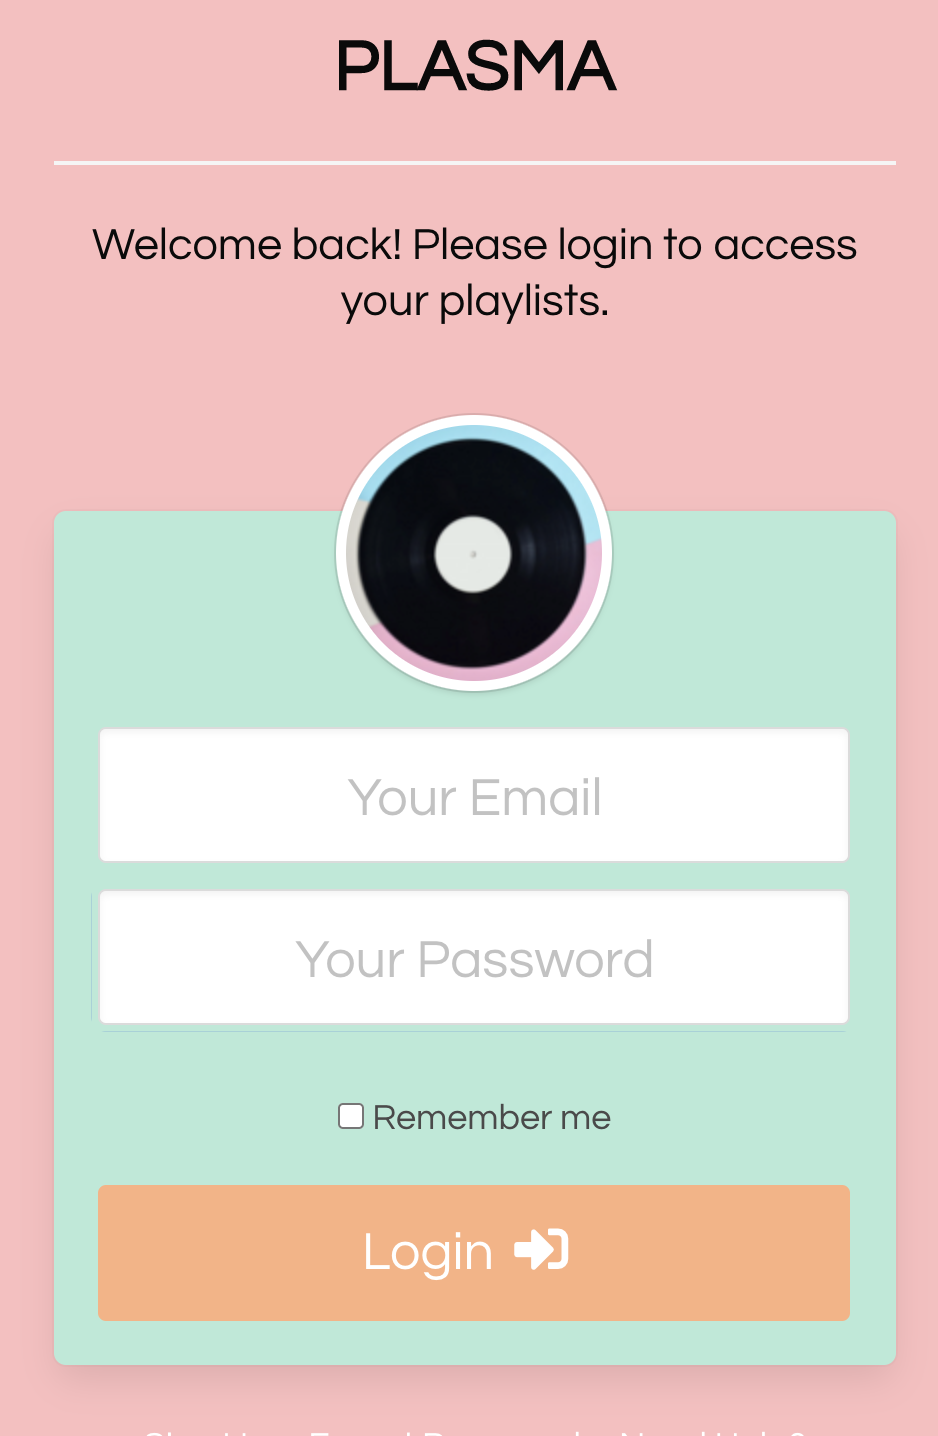
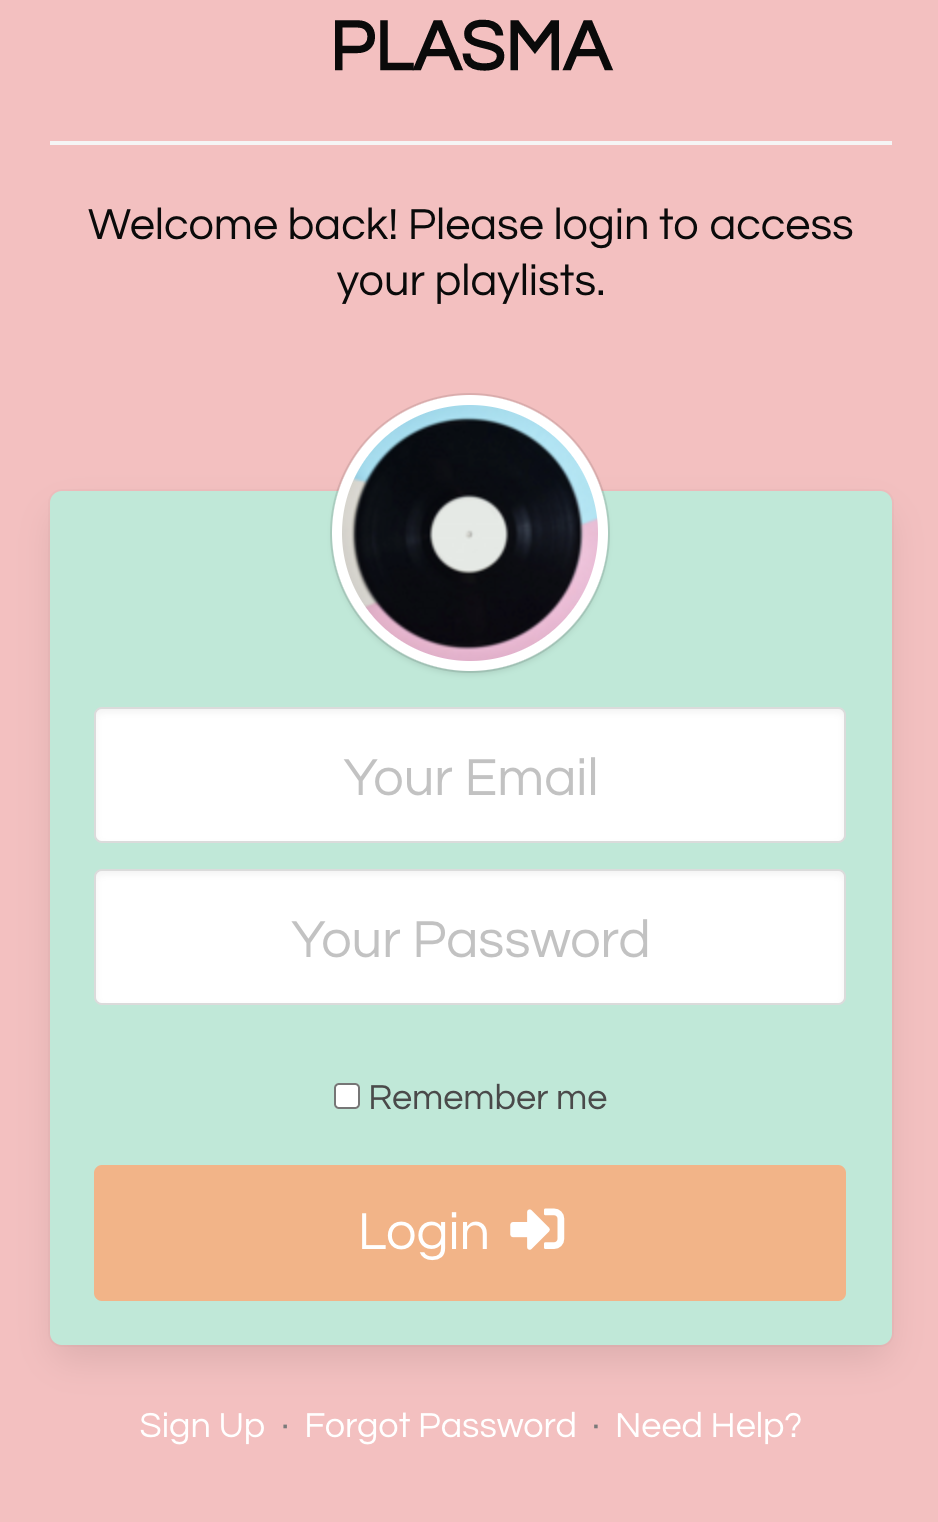
updated readme file

diff --git a/README.md b/README.md
@@ -11,43 +11,45 @@ ___
 
 ## How it Works
 
-In order for this application to work the user will need to use the terminal to run the program.  This application requires the installation of various dependencies including express, express-handlebars, mysql, and sequelize. These packages assist in handling the dashboard portion of this application.  Additional dependecies including bycrypt, passport, express-session, passort-local, and dotenv are what allow for privacy and authentication throughout the application. When the user runs "node server", there will be a listening PORT assigned to the application. For this case, PLASMA is on local host 3000.
+In order for this application to work the user will need to use the terminal to run the program.  This application requires the installation of various dependencies including express, express-handlebars, mysql, and sequelize. These packages assist in handling the dashboard portion of this application.  Additional dependecies including bycrypt, passport, express-session, passort-local, and dotenv are what allow for privacy and authentication throughout the application. When the user runs "node server", there will be a listening PORT assigned to the application. For this case, PLASMA is on local host 3000. The homepage can be viewed by opening the brower to "localhost:3000" or opening the deployed Heroku link.
+<br><br>
+
+<img src="public/styles/images/homepage.png" width="680">
+<br><br>
+
+In order for the user to being the process of accessing the application, the user will need to click on the "Access Your Playlist" button. By doing this, an api call will be made and render the login screen. The login screen gives the user a multitude of of options to chose from. The most obvious is the option for the user to enter a username and password and select the "Login" button.  Entering in the username and password generates a session through the passport npm package.  The session is what links to the database in MySql and allows access to the rest of the application.
 
 <br><br>
 
-![LOCALHOST IN BROWSER](public/styles/images/localHost.png)
+<img src="public/styles/images/loginPage.png" width="280">
+<!-- ![LOGIN](public/styles/images/loginPage.png) -->
 
 <br><br>
 
-In order for the user to being the process of accessing the application, the user will need to click on the "Access Your Playlist" button. By doing this, an api call will and render the login screen.
-
-![HOMEPAGE](public/styles/images/loginpage.png)
+The user also has the option select an action located at the bottom of the login page.  If the user needs assistance, he/she will be able to click on the "Need Help?" button. This will route the user to the "Contact Us" page which gives the user the ability to send a message to the developers via email. From this page, the user will be able to return to the homepage by selecting the "PLASMA" icon on the top left portion of the navigation bar, singup for membership by selecting "Sign Up" on the right side, or login/logout by making a selections from the dropdown "User" menu.
 
 <br><br>
 
-From there, the user will need to navigate over to their brower and open up the local host listen port in order to view the page.
+<img src="public/styles/images/contactUsPage.png" width="680">
 
 <br><br>
 
-![LOCALHOST IN BROWSER](public/assets/img/locoalHost.png)
+The user has another option from the login page to select the "Forgot Password" option. This will render the a 404 Error page that will then route the user back to the homepage.
+<br><br>
+
+<img src="public/styles/images/404error.png" width="680">
 
 <br><br>
 
-By doing this, the user will be able to view the opening page of the application. From there, he/she will be able to enter a new name for a burger, then click on the "Make Burger" button to create the burger. 
+The final option the user will be able to select is the "Sign Up" button.  This redirects the user to the "Signup" page where the user will be prompted to enter a name, email address, and password in order to create an account. Making a new user creates a new user in the MySql database. Each new user is assigned an id in the table. This allows for data to be populated to specific users once logged into the application.
 <br><br>
 
-![CREATE BURGER](public/assets/img/makeBurger.png)
-
-<br><br>
-
-Once clicked, the created burger will be appear on the left side of the page. Along with the newly created burger, there will be a button labeled "Eat Me!" that appears to the right of the burger name.
-<br><br>
-
-![SAVING NOTES](public/assets/img/addedBurger.png)
+<img src="public/styles/images/signupPage.png" width="280">
 
 <br><br>
 
-Once the burger is added, the user will click the "Eat Me!" button. Doing this will move the burger from the "Make the Burger" column on the left side of the page to the "DEVOUR THE BURGER!!" column on the right side of the page.
+Upon enetering the dashboard, the user will be greeted with a header that includes the specfic name he/she 
+
 <br><br>
 
 ![PICTURE DEVOURED BURGERS](public/assets/img/devouredBurgers.png)
